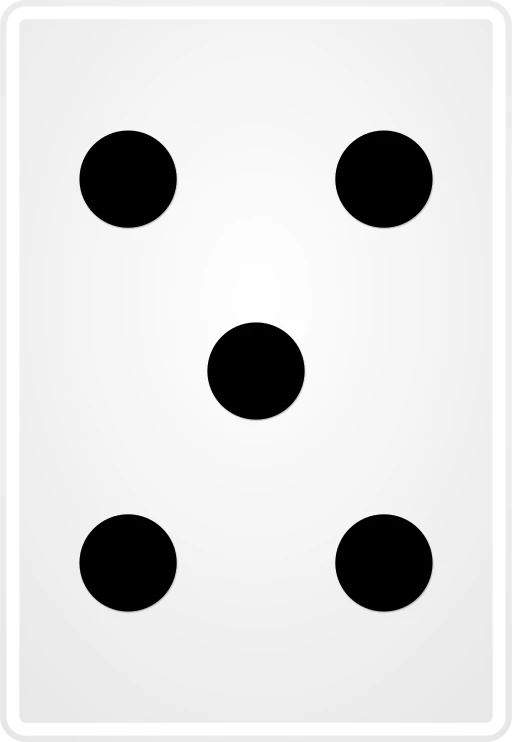
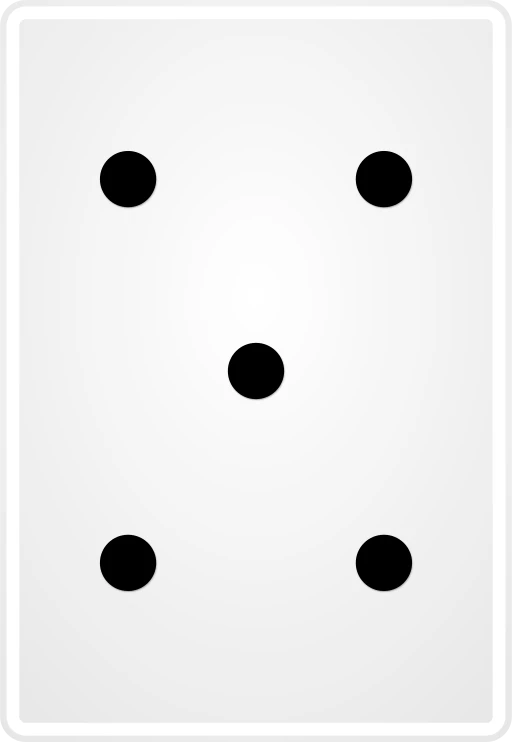
Update card back display and registration page
Update `dot-classic-022.webp` and `dot-classic-proportioned.svg` for card backs. Modify the registration page title from "Join Offsuit" to "Join FaceUp" and adjust styling for background elements.

Replit-Commit-Author: Agent
Replit-Commit-Session-Id: 82c01b13-2701-43c4-94d2-9665220dc497
Replit-Commit-Checkpoint-Type: full_checkpoint
Replit-Commit-Screenshot-Url: https://storage.googleapis.com/screenshot-production-us-central1/d4df8a74-0cb5-4d8a-89aa-fc8e4d139b01/82c01b13-2701-43c4-94d2-9665220dc497/IpElaQX

diff --git a/client/src/pages/auth/register.tsx b/client/src/pages/auth/register.tsx
@@ -139,7 +139,6 @@ export default function Register() {
         <div className="absolute top-10 right-20 w-96 h-96 bg-accent-purple/10 rounded-full blur-3xl" />
         <div className="absolute bottom-10 left-20 w-96 h-96 bg-accent-gold/10 rounded-full blur-3xl" />
       </div>
-
       {/* Back button */}
       <motion.div 
         className="absolute top-6 left-6 z-10"
@@ -157,7 +156,6 @@ export default function Register() {
           <ArrowLeft className="w-5 h-5" />
         </Button>
       </motion.div>
-
       <div className="flex items-center justify-center min-h-screen p-6 relative z-10">
         <motion.div
           className="w-full max-w-md"
@@ -195,9 +193,7 @@ export default function Register() {
               animate={{ opacity: 1, y: 0 }}
               transition={{ duration: 0.6, delay: 0.4 }}
             >
-              <h1 className="text-4xl font-black text-white mb-4 tracking-tight bg-gradient-to-r from-white via-white to-accent-gold/80 bg-clip-text">
-                Join Offsuit
-              </h1>
+              <h1 className="text-4xl font-black text-white mb-4 tracking-tight bg-gradient-to-r from-white via-white to-accent-gold/80 bg-clip-text">Join FaceUp</h1>
               <p className="text-white/70 text-lg font-medium">
                 Start your blackjack mastery journey today
               </p>
